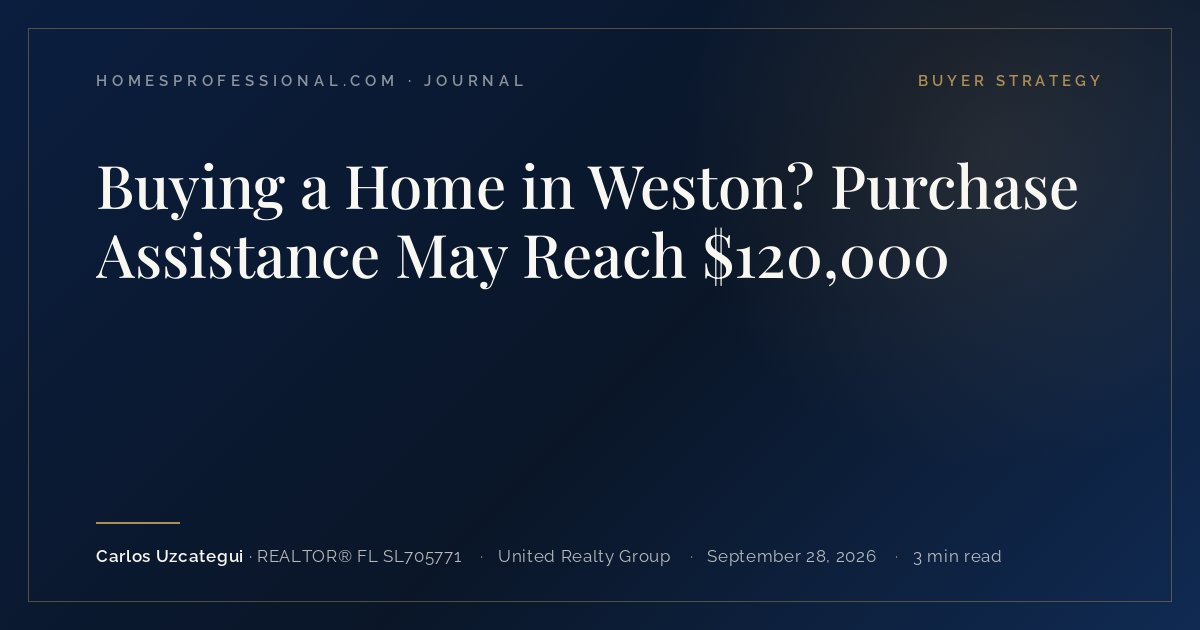
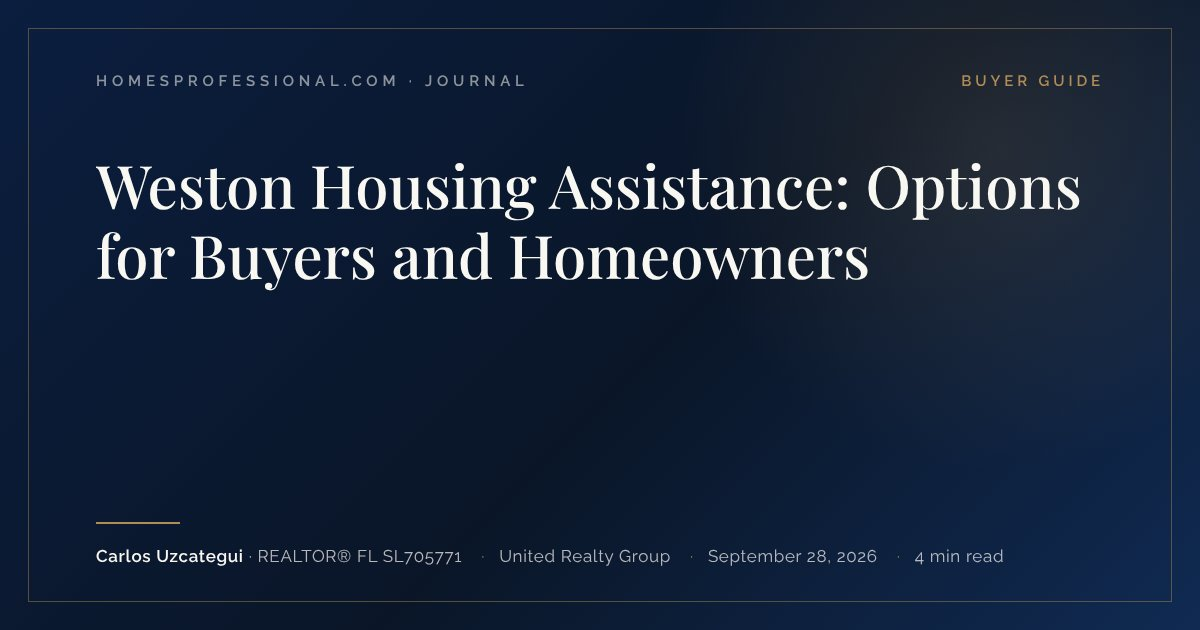
Journal: link orphaned share cards, consolidate categories, drop a redirected CTA link
- render-journal-og.mjs treated `image: ""` as already linked and exited early
  when every card existed, so three posts with cards on disk shipped with no
  og:image. Empty image fields are now filled, and existing cards are linked
  without launching a browser.
- Fold four one-off categories (South Florida Market Intelligence, Weston
  Market Report, Weston Resources, Transaction Strategy) into Market Analysis,
  Buyer Guide and Seller Strategy, so the /journal filter has four clear chips.
  Re-render those posts' cards, which print the category.
- Point the house-vs-condo CTA at /home-value directly instead of through the
  /seller-advisory 301.

Claude-Session: https://claude.ai/code/session_01VCoq3aEgJgV2LmTH5xy4E6

diff --git a/src/content/journal/selling-house-vs-condo-south-florida-2026.md b/src/content/journal/selling-house-vs-condo-south-florida-2026.md
@@ -96,7 +96,7 @@ Our team works in English and Spanish, with buyers and cooperating agents from N
 
 Book a Private Seller Strategy Review. Carlos Uzcategui and our team review your property type and segment, current comparables, insurance readiness and, for condos, the association's reserve and inspection documents, then outline a pricing and distribution plan. There is no listing commitment.
 
-[Book a Private Seller Strategy Review](/seller-advisory?utm_source=journal&utm_medium=organic&utm_campaign=selling-house-vs-condo-south-florida-2026)
+[Book a Private Seller Strategy Review](/home-value?utm_source=journal&utm_medium=organic&utm_campaign=selling-house-vs-condo-south-florida-2026)
 
 Prefer a direct conversation? WhatsApp +1 954-865-6622 (United States), WhatsApp +34 646 85 30 78 (Spain), or email contact@carlosre.com. Owners comparing approaches can also start with our [South Florida seller strategy page](/sell) or the [current market data](/market-data).
 

diff --git a/src/content/journal/beyond-offer-price-south-florida-representation-2026.md b/src/content/journal/beyond-offer-price-south-florida-representation-2026.md
@@ -4,8 +4,8 @@ seoTitle: "South Florida Real Estate Representation | Carlos Uzcategui"
 date: "2026-09-22"
 slug: "beyond-offer-price-south-florida-representation-2026"
 excerpt: "A South Florida sale or purchase depends on more than price. See how experienced representation coordinates terms, timing, tax-aware planning, and closing."
-category: "Transaction Strategy"
-image: ""
+category: "Seller Strategy"
+image: "/images/journal/og/beyond-offer-price-south-florida-representation-2026.jpg"
 created_by: "codex"
 market: "South Florida"
 funnel_stage: "consideration"

diff --git a/src/content/journal/south-florida-april-2026-market-signal-home-sellers.md b/src/content/journal/south-florida-april-2026-market-signal-home-sellers.md
@@ -3,7 +3,7 @@ title: "South Florida's April 2026 Market Signal for Home Sellers"
 date: "2026-06-08"
 slug: "south-florida-april-2026-market-signal-home-sellers"
 excerpt: "MIAMI REALTORS April 2026 data shows stronger single-family sales and tighter inventory across Miami-Dade, Broward, and Palm Beach."
-category: "South Florida Market Intelligence"
+category: "Market Analysis"
 image: "/images/journal/og/south-florida-april-2026-market-signal-home-sellers.jpg"
 created_by: "claude"
 market: "South Florida"

diff --git a/src/content/journal/weston-homebuyer-purchase-assistance-2026.md b/src/content/journal/weston-homebuyer-purchase-assistance-2026.md
@@ -5,8 +5,8 @@ date: "2026-09-28"
 updated: "2026-09-28"
 slug: "weston-homebuyer-purchase-assistance-2026"
 excerpt: "A practical guide to Weston's purchase assistance, home repair and hurricane upgrades, and accessibility programs, with the right questions to ask before applying."
-category: "Weston Resources"
-image: ""
+category: "Buyer Guide"
+image: "/images/journal/og/weston-homebuyer-purchase-assistance-2026.jpg"
 created_by: "manual"
 market: "Weston"
 funnel_stage: "consideration"

diff --git a/src/content/journal/miami-dade-condo-sellers-may-2026-market.md b/src/content/journal/miami-dade-condo-sellers-may-2026-market.md
@@ -4,7 +4,7 @@ seoTitle: "Miami-Dade Condo Owners in 2026"
 date: "2026-06-20"
 slug: "miami-dade-condo-sellers-may-2026-market"
 excerpt: "May 2026 data shows Miami-Dade condos at 12.9 months of supply — a buyer's market. For condo sellers, pricing discipline and distribution decide the outcome."
-category: "South Florida Market Intelligence"
+category: "Market Analysis"
 image: "/images/journal/og/miami-dade-condo-sellers-may-2026-market.jpg"
 created_by: "claude"
 market: "Miami-Dade"

diff --git a/src/content/journal/doral-home-prices-may-2026-market-report.md b/src/content/journal/doral-home-prices-may-2026-market-report.md
@@ -4,7 +4,7 @@ seoTitle: "Selling a Doral Home in 2026"
 date: "2026-06-30"
 slug: "doral-home-prices-may-2026-market-report"
 excerpt: "A source-safe seller strategy brief for Doral homeowners: how to read citywide market signals, avoid overreliance on headline medians, and prepare a stronger launch."
-category: "South Florida Market Intelligence"
+category: "Market Analysis"
 image: "/images/journal/og/doral-home-prices-may-2026-market-report.jpg"
 created_by: "claude"
 market: "Doral"

diff --git a/src/content/journal/international-luxury-properties-miami-buyer-agents-global-desk.md b/src/content/journal/international-luxury-properties-miami-buyer-agents-global-desk.md
@@ -6,7 +6,7 @@ updated: "2026-09-15"
 slug: "international-luxury-properties-miami-buyer-agents-global-desk"
 excerpt: "How Miami Global Desk combines professional representation, distribution, buyer-agent activation and transaction execution for selected international properties."
 category: "International"
-image: ""
+image: "/images/journal/og/international-luxury-properties-miami-buyer-agents-global-desk.jpg"
 created_by: "manual"
 market: "Global"
 funnel_stage: "consideration"

diff --git a/src/content/journal/south-florida-may-2026-market-report-home-sellers.md b/src/content/journal/south-florida-may-2026-market-report-home-sellers.md
@@ -5,7 +5,7 @@ date: "2026-06-20"
 slug: "south-florida-may-2026-market-report-home-sellers"
 excerpt: "May 2026 South Florida single-family data for Miami-Dade and Broward, translated into property-level pricing, competition, and launch decisions."
 updated: "2026-08-27"
-category: "South Florida Market Intelligence"
+category: "Market Analysis"
 image: "/images/journal/og/south-florida-may-2026-market-report-home-sellers.jpg"
 created_by: "claude"
 market: "South Florida"

diff --git a/src/content/journal/weston-4-bedroom-single-family-market-june-2026.md b/src/content/journal/weston-4-bedroom-single-family-market-june-2026.md
@@ -3,7 +3,7 @@ title: "Weston 4-Bedroom Single-Family Market - June 2026"
 date: "2026-06-02"
 slug: "weston-4-bedroom-single-family-market-june-2026"
 excerpt: "A focused Weston market report for 4-bedroom single-family homes, using Bridge / Miami MLS data from May 3 through June 2, 2026."
-category: "Weston Market Report"
+category: "Market Analysis"
 image: "/images/journal/og/weston-4-bedroom-single-family-market-june-2026.jpg"
 created_by: "claude"
 market: "Weston"
